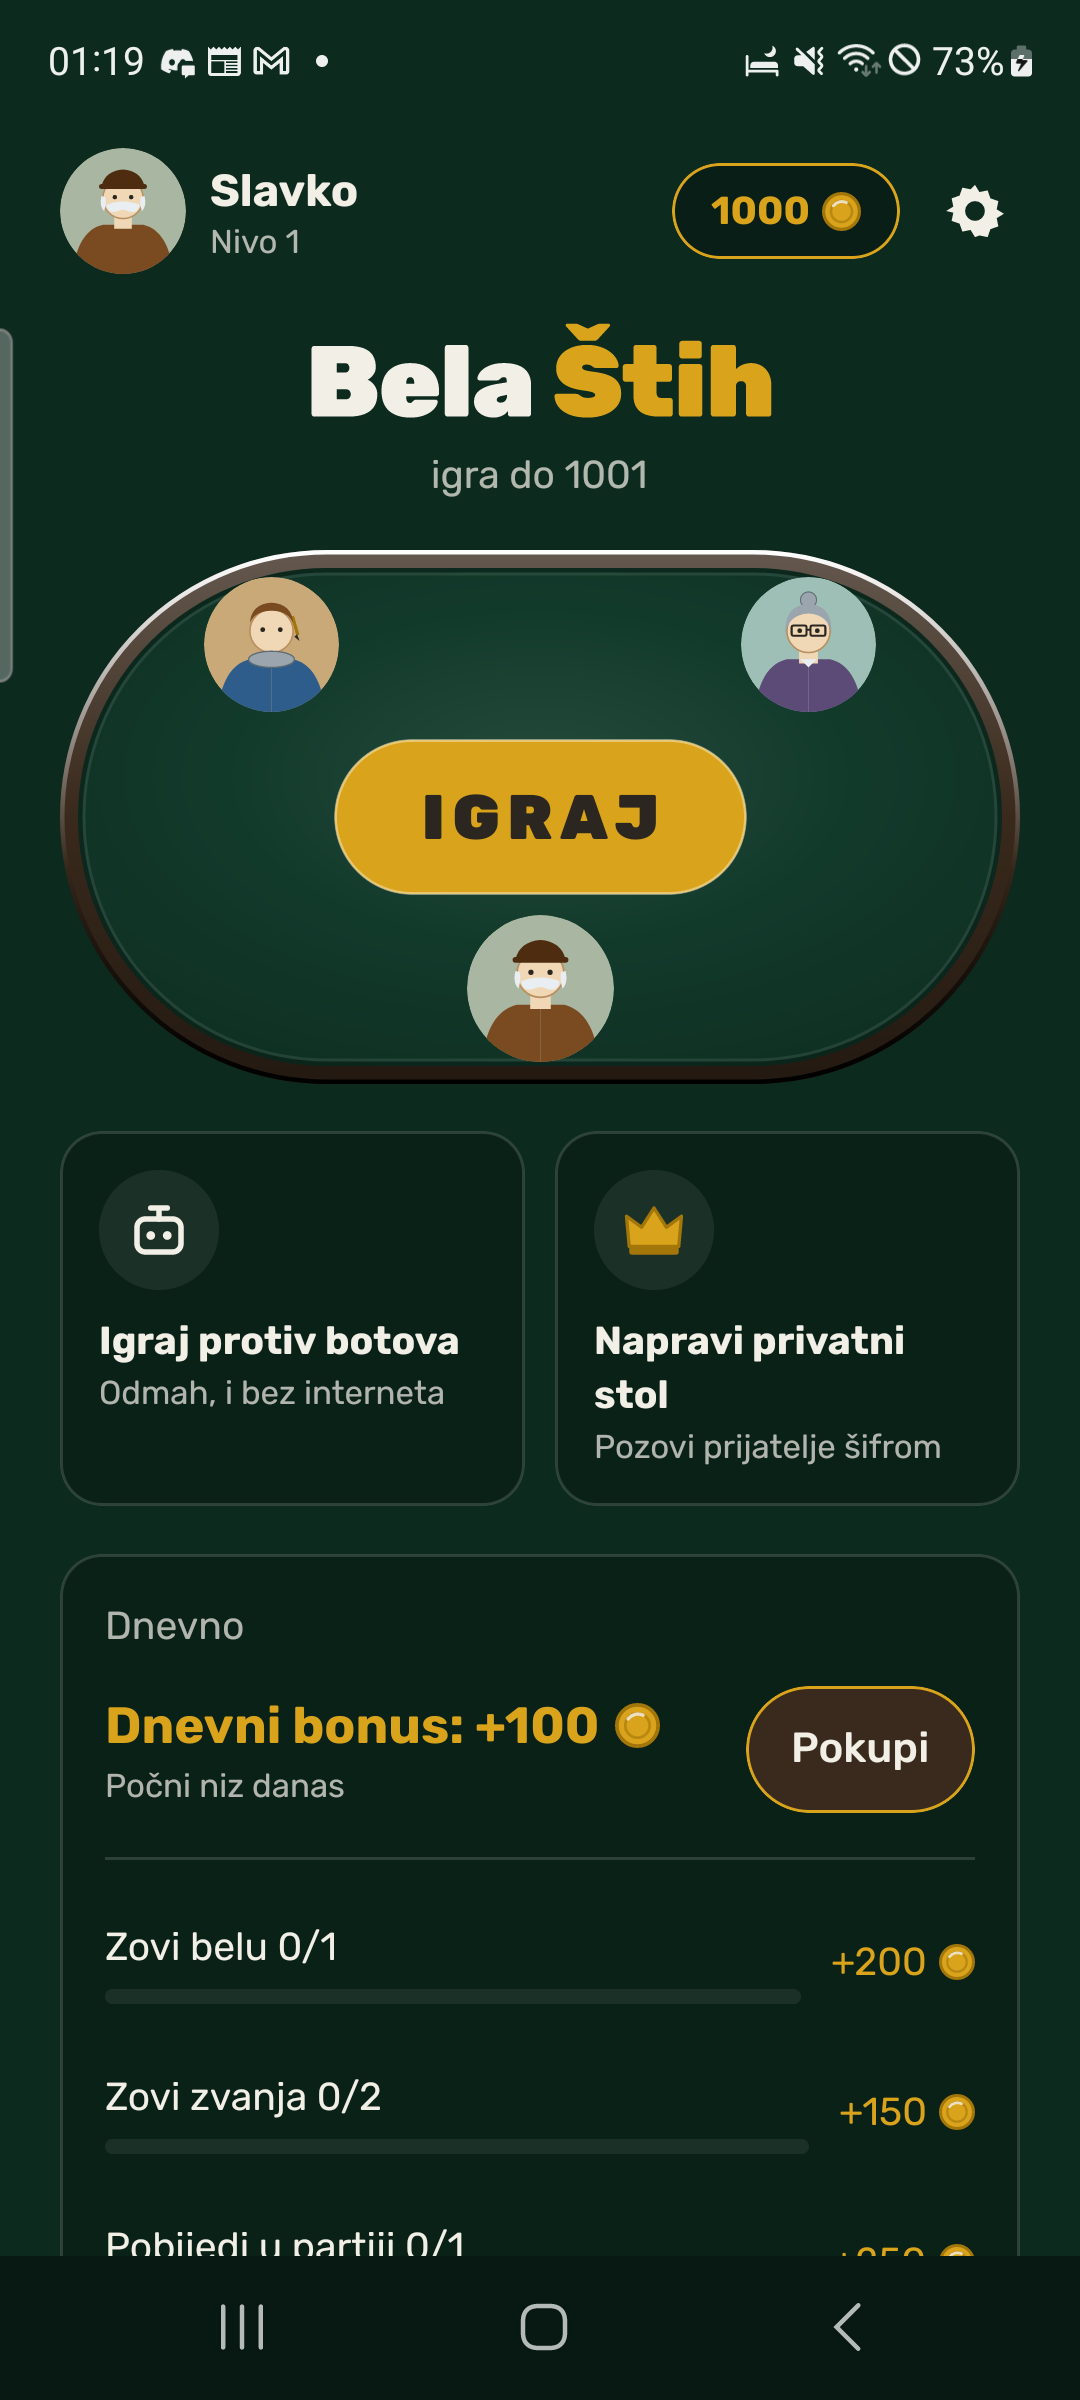
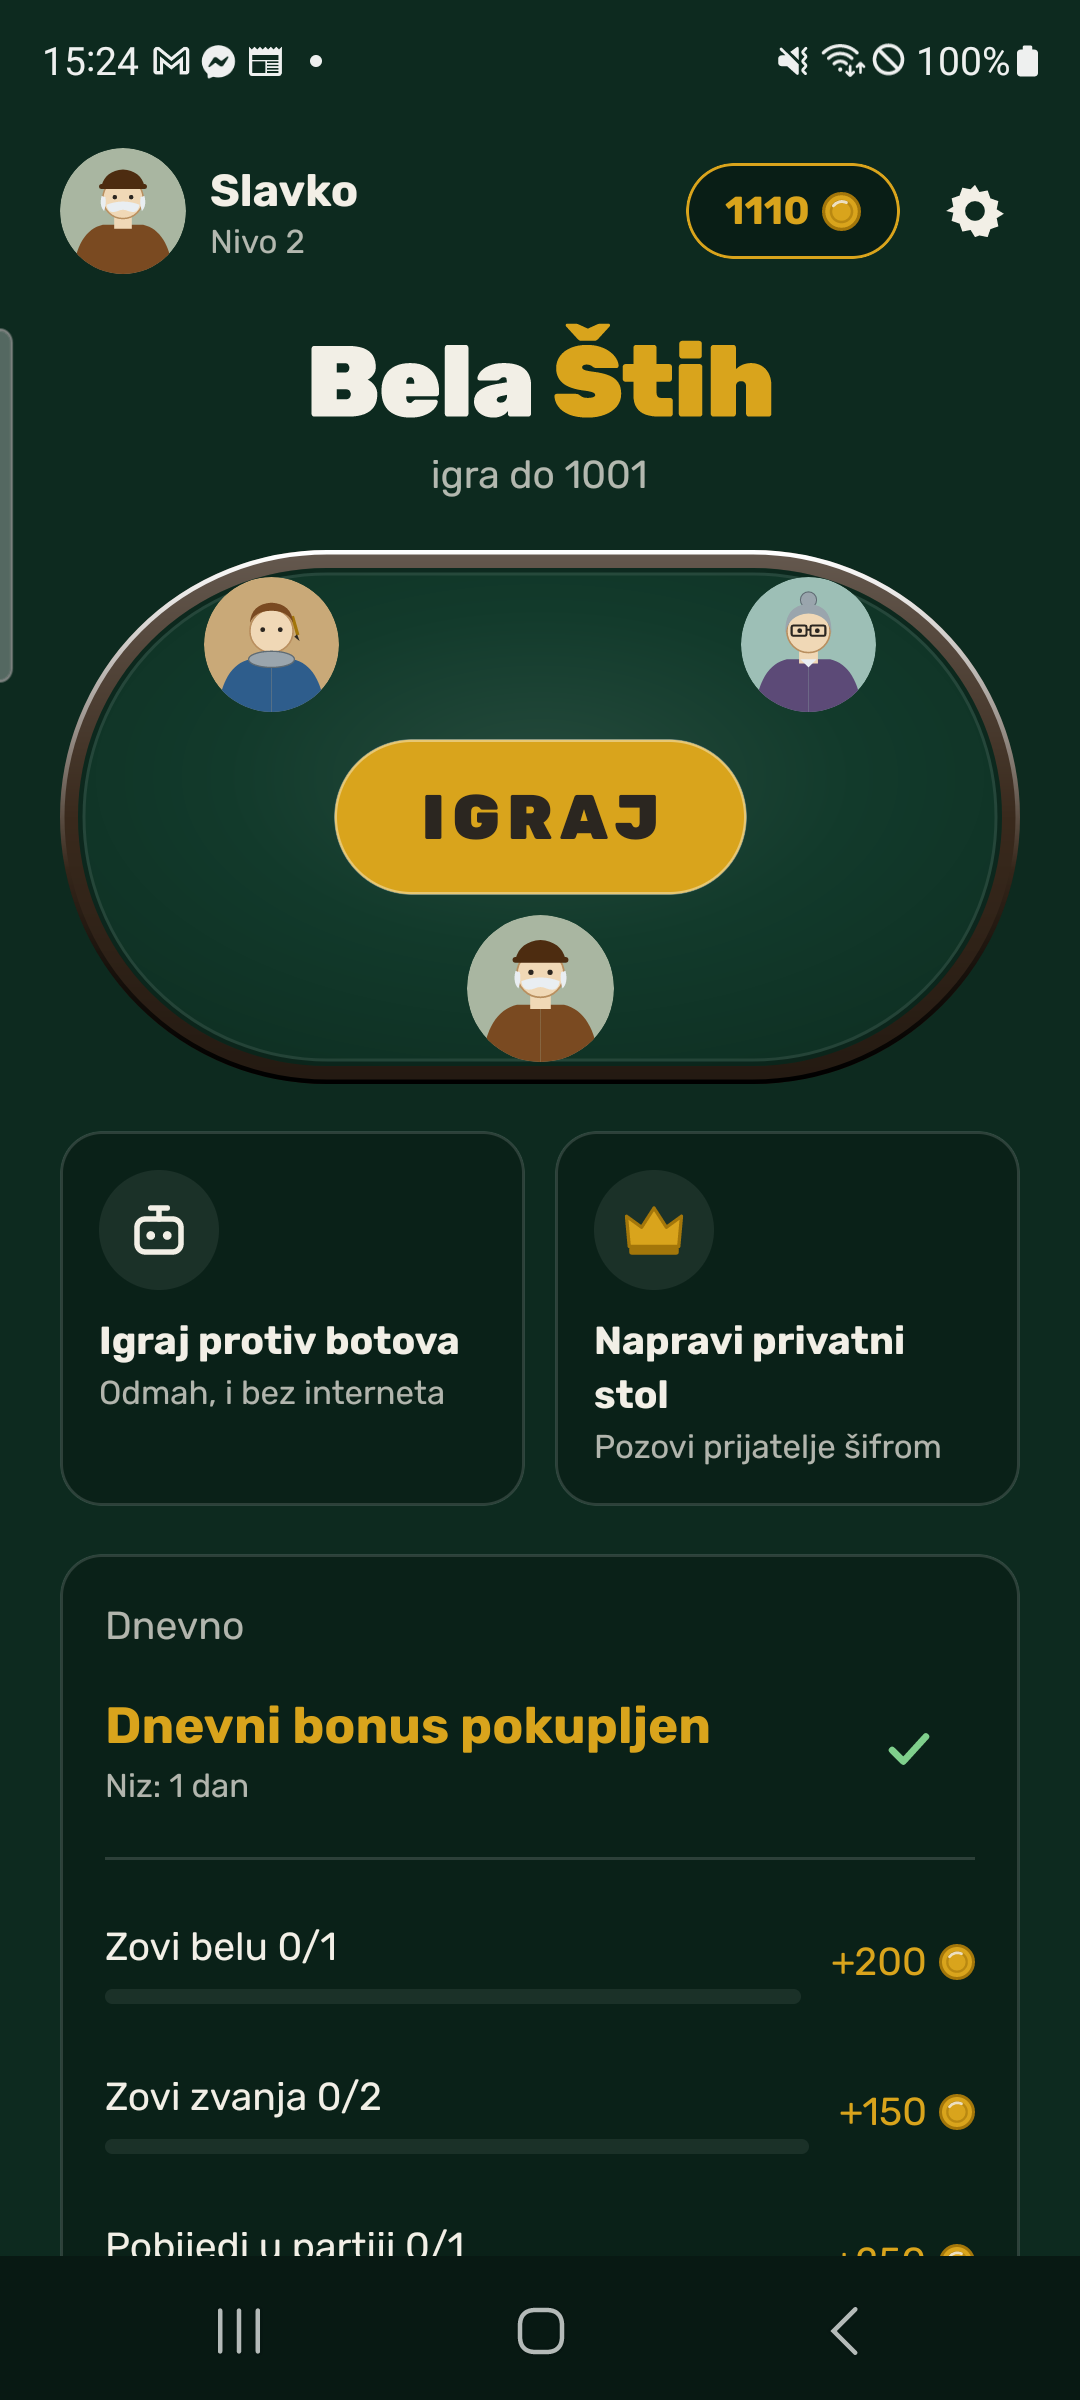
The phrases open in the faces' row, and store screenshots without the phone's bars
Found while re-taking the store screenshots on 1.2.3:

- Opening the phrase tray covered the player's own disc: the phrases floated
  40px above the faces, which is where the disc has stood since 1.2.2. In
  portrait they now take the faces' own 34px row while the tray is open, and
  the faces come back when it closes, so nothing moves and nothing is
  covered. Landscape keeps its float over the felt. A source guard pins the
  in-flow row and fails on the old absolute one.
- The crop kept the navigation bar's top 24 px on every store frame: this
  Samsung's three-button bar is 144 px, not 120, and the bright-bar check
  cannot see a dark bar. The crop is now 96 off the top (the status bar is 88)
  and 144 off the bottom, and a new check finds the bar's real edge and
  refuses any crop that would keep some of it - it refuses the old 120/120 on
  all six frames.
- Samsung's Edge-panel handle, a grey bar on the left edge, was in every
  frame. It is painted out from the page beside it, and the script refuses a
  frame where the app draws there.

All six re-taken on 1.2.3 (versionCode 19) on the Samsung SM-G780G: the lobby
with the whole "Dnevni bonus pokupljen", a mid-trick table with both zvanja,
the phrases in the faces' row, the deal sheet with "Prošli", the shop and the
decks.

diff --git a/apps/mobile/src/table/EmoteStrip.tsx b/apps/mobile/src/table/EmoteStrip.tsx
@@ -10,8 +10,11 @@ import { font, radius, theme } from '../theme';
  *
  * The old tray sat in the flex column, so opening it shrank the felt by ~120px,
  * moved every sprite anchor and forced a re-measure mid-animation. This one
- * costs a constant 34px whether it is open or shut: the six glyphs are always
- * visible (one tap, no chrome) and the four phrases float above them.
+ * costs a constant 34px whether it is open or shut: the six glyphs are up (one
+ * tap, no chrome) until the toggle swaps them for the four phrases, in the
+ * same row. The phrases used to float above the glyphs — over my own puck,
+ * once it moved there, so opening the tray covered my face. In landscape the
+ * strip runs down the rail and the phrases still float out over the felt.
  */
 
 const GLYPHS = EMOTES.filter((e) => e.glyph);
@@ -25,7 +28,7 @@ export function EmoteStrip({
   onSend,
 }: {
   lang: Lang;
-  /** Phrases showing? The glyph row is always up. */
+  /** Phrases showing? In portrait they take the glyphs' place. */
   open: boolean;
   /** Fade back while the player is deciding a card. */
   dimmed: boolean;
@@ -33,11 +36,12 @@ export function EmoteStrip({
   vertical?: boolean;
   onSend: (id: string) => void;
 }) {
+  // Portrait's row above the strip is my puck: nothing may float up over it.
+  const inPlace = !vertical;
   return (
     <View style={[styles.wrap, vertical && styles.wrapCol]} pointerEvents="box-none">
-      {/* The phrases float, so opening them cannot move the felt or the hand. */}
       {open && (
-        <View style={[styles.row, vertical ? styles.phraseCol : styles.phraseRow]}>
+        <View style={[styles.row, inPlace ? styles.phraseRow : styles.phraseCol]}>
           {PHRASES.map((e) => (
             <PressScale key={e.id} onPress={() => onSend(e.id)} style={styles.phraseChip} sound={null}>
               <Text style={styles.phrase}>{emoteText(lang, e.id)}</Text>
@@ -46,20 +50,22 @@ export function EmoteStrip({
         </View>
       )}
       {/* The bubble's pop is the sound of an emote; no click on top of it. */}
-      <View style={[styles.row, vertical && styles.col, dimmed && styles.faded]}>
-        {GLYPHS.map((e) => (
-          <PressScale
-            key={e.id}
-            onPress={() => onSend(e.id)}
-            style={styles.chip}
-            hitSlop={4}
-            sound={null}
-            accessibilityLabel={e.id}
-          >
-            {hasEmoteFace(e.id) ? <EmoteFace id={e.id} size={26} /> : <Text style={styles.glyph}>{emoteText(lang, e.id)}</Text>}
-          </PressScale>
-        ))}
-      </View>
+      {!(open && inPlace) && (
+        <View style={[styles.row, vertical && styles.col, dimmed && styles.faded]}>
+          {GLYPHS.map((e) => (
+            <PressScale
+              key={e.id}
+              onPress={() => onSend(e.id)}
+              style={styles.chip}
+              hitSlop={4}
+              sound={null}
+              accessibilityLabel={e.id}
+            >
+              {hasEmoteFace(e.id) ? <EmoteFace id={e.id} size={26} /> : <Text style={styles.glyph}>{emoteText(lang, e.id)}</Text>}
+            </PressScale>
+          ))}
+        </View>
+      )}
     </View>
   );
 }
@@ -67,7 +73,9 @@ export function EmoteStrip({
 const styles = StyleSheet.create({
   wrap: { alignItems: 'center', justifyContent: 'flex-end', minHeight: 34 },
   wrapCol: { justifyContent: 'flex-start', minHeight: 0 },
-  phraseRow: { position: 'absolute', bottom: 40, left: 0, right: 0 },
+  // The glyphs' own 34px, exactly: a larger system font may crowd the chips,
+  // but it can never make the row taller and move the fan above it.
+  phraseRow: { height: 34, alignItems: 'center', flexWrap: 'nowrap' },
   // Landscape: phrases open leftwards, over the felt, never over the rail.
   phraseCol: { position: 'absolute', right: 40, top: 0, width: 150, alignItems: 'flex-end' },
   row: { flexDirection: 'row', gap: 6, justifyContent: 'center', flexWrap: 'wrap' },

diff --git a/apps/mobile/test/source-guards.test.ts b/apps/mobile/test/source-guards.test.ts
@@ -342,6 +342,19 @@ describe('the first frame and the last resort', () => {
     expect(existsSync(join(here, '../src/deck/cornerIndex.ts'))).toBe(false);
   });
 
+  it('the phrases open in the faces\' own row, never over my puck under the fan', () => {
+    const s = src('table/EmoteStrip.tsx');
+    // Portrait: the phrase row is the glyph row's 34px, in the flow — it used
+    // to float 40px up, which is where my puck has stood since 1.2.2.
+    const row = s.match(/phraseRow: \{[^}]*\}/)?.[0] ?? '';
+    expect(row).not.toBe('');
+    expect(row).not.toMatch(/absolute/);
+    expect(row).toMatch(/height: 34\b/);
+    // …and the glyphs make way while it is open, or the strip would be two rows.
+    expect(s).toMatch(/const inPlace = !vertical;/);
+    expect(s).toMatch(/\{!\(open && inPlace\) && \(/);
+  });
+
   it('the web template paints dark before the bundle parses', () => {
     const html = readFileSync(join(here, '../public/index.html'), 'utf8');
     expect(html).toMatch(/<html lang="hr">/);

diff --git a/scripts/crop-screens.py b/scripts/crop-screens.py
@@ -4,14 +4,26 @@
     python scripts/crop-screens.py --in DIR --out DIR
 
 A 1080x2400 capture is NOT uploadable: Play refuses a screenshot whose long
-side is more than twice its short side, and 2400 / 1080 is 2.22. Taking 120 px
-off the top and 120 off the bottom removes both system bars and lands on
-exactly 1080x2160 = 1:2, which is the widest Play allows. It also drops the
-alpha channel, because Play asks for 24-bit PNG.
+side is more than twice its short side, and 2400 / 1080 is 2.22. The frames
+come from the Samsung SM-G780G, whose status bar is 88 px tall and whose
+three-button navigation bar is 144 px. Taking 96 px off the top and 144 off
+the bottom removes both and lands on exactly 1080x2160 = 1:2, which is the
+widest Play allows. It also drops the alpha channel, because Play asks for
+24-bit PNG.
+
+It used to take 120 and 120, which kept the navigation bar's top 24 px on
+every frame: a dark strip the bright-bar check could not see.
+
+The same phone draws its Edge-panel handle, a translucent grey bar, over
+every app at the left edge (x 0..13, y 328..682 of the raw frame). It is
+painted out row by row with the app's own page just beside it; where that
+page is not flat, something of the app's reaches the edge, and the script
+refuses rather than smear it.
 
 The checks refuse rather than ship something wrong: a frame that is not
-1080x2400, one that still has a bright system bar inside the kept region, and
-one that looks like it has already been cropped.
+1080x2400, one that still has a bright system bar inside the kept region, one
+whose navigation bar starts above the bottom crop, one with app content beside
+the handle, and one that looks like it has already been cropped.
 """
 
 import argparse
@@ -24,9 +36,14 @@ except ImportError:  # pragma: no cover - the message is the point
     sys.exit("!! Pillow is needed: python -m pip install pillow")
 
 RAW_W, RAW_H = 1080, 2400
-TOP = 120
-BOTTOM = 120
+TOP = 96
+BOTTOM = 144
 OUT_H = RAW_H - TOP - BOTTOM  # 2160, exactly 2x the width
+
+# The Edge-panel handle on the raw frame: columns [0, HANDLE_W), rows
+# HANDLE_ROWS. Measured at x 0..13, y 328..682; the margins take its soft edges.
+HANDLE_W = 16
+HANDLE_ROWS = (320, 692)
 
 REPO = Path(__file__).resolve().parent.parent
 DEFAULT_IN = REPO / "apps" / "mobile" / "store" / "screens"
@@ -41,6 +58,45 @@ def brightest_row(img: Image.Image, y0: int, y1: int) -> float:
     return max(sum(data[y * w : (y + 1) * w]) / w for y in range(px.height))
 
 
+def nav_bar_top(img: Image.Image) -> int:
+    """The first row of the flat band at the bottom of a raw frame: the navigation bar.
+
+    Read on the left-edge columns, clear of the bar's three icons, from the
+    bottom up for as long as each row keeps the bottom row's colour. The app's
+    own ground above the bar differs from it, so the edge is sharp.
+    """
+    rgb = img.convert("RGB")
+    xs = range(10, 130, 10)
+
+    def row(y: int) -> tuple:
+        px = [rgb.getpixel((x, y)) for x in xs]
+        return tuple(sum(c[i] for c in px) / len(px) for i in range(3))
+
+    base = row(img.height - 3)
+    y = img.height - 3
+    while y > img.height - 400 and max(abs(a - b) for a, b in zip(row(y), base)) <= 6:
+        y -= 1
+    return y + 1
+
+
+def erase_edge_handle(img: Image.Image, name: str) -> Image.Image:
+    """Paint the handle's strip with the page just beside it, one row at a time."""
+    rgb = img.convert("RGB")
+    px = rgb.load()
+    src = HANDLE_W + 2
+    for y in range(*HANDLE_ROWS):
+        page = px[src, y]
+        further = px[src + 6, y]
+        if max(abs(a - b) for a, b in zip(page, further)) > 3:
+            raise SystemExit(
+                f"!! {name}: the app draws beside the edge handle at y={y} ({page} vs {further}) "
+                f"- painting the handle out would smear it. Re-take the frame."
+            )
+        for x in range(src):
+            px[x, y] = page
+    return rgb
+
+
 def crop(src: Path, dst: Path) -> str:
     img = Image.open(src)
     if (img.width, img.height) != (RAW_W, RAW_H):
@@ -48,7 +104,15 @@ def crop(src: Path, dst: Path) -> str:
             raise SystemExit(f"!! {src.name} is already {RAW_W}x{OUT_H} - already cropped?")
         raise SystemExit(f"!! {src.name} is {img.width}x{img.height}, expected {RAW_W}x{RAW_H}")
 
-    kept = img.crop((0, TOP, RAW_W, RAW_H - BOTTOM)).convert("RGB")
+    # A dark bar has no bright row to give it away: find its edge instead.
+    nav = nav_bar_top(img)
+    if nav < RAW_H - BOTTOM:
+        raise SystemExit(
+            f"!! {src.name}: the navigation bar starts at y={nav}, but the crop keeps rows down to "
+            f"y={RAW_H - BOTTOM} - a strip of it would ship. Another phone? Re-measure TOP and BOTTOM."
+        )
+
+    kept = erase_edge_handle(img, src.name).crop((0, TOP, RAW_W, RAW_H - BOTTOM))
 
     # The status bar's glyphs and the navigation bar's are far brighter than
     # the app's own dark ground; if one survived the crop, say so.
@@ -63,7 +127,7 @@ def crop(src: Path, dst: Path) -> str:
 
     dst.parent.mkdir(parents=True, exist_ok=True)
     kept.save(dst, "PNG")
-    return f"   {dst.name}  {kept.width}x{kept.height}  {dst.stat().st_size // 1024} KiB"
+    return f"   {dst.name}  {kept.width}x{kept.height}  {dst.stat().st_size // 1024} KiB  (nav bar from y={nav})"
 
 
 def main() -> None:
